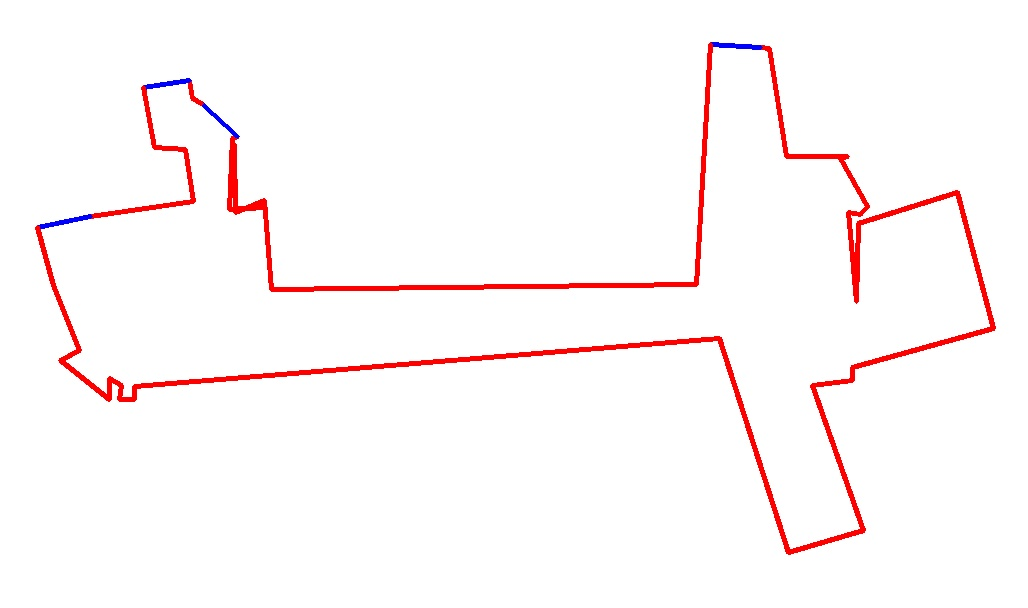
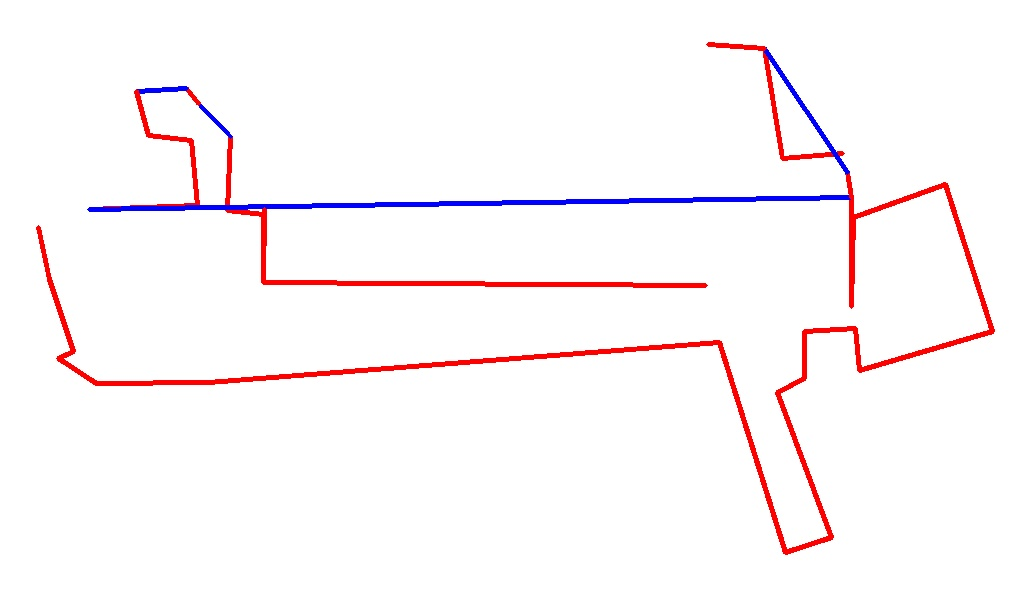
new run

Changed region(s): [[0.0311, 0.0625, 0.965, 0.8125], [0.0311, 0.4062, 0.716, 0.6562], [0.7471, 0.7188, 0.8405, 0.9062]]

diff --git a/new_gyro.py b/new_gyro.py
@@ -9,81 +9,6 @@ import numpy as np
 power_mgmt_1 = 0x6b
 power_mgmt_2 = 0x6c
  
-# Image
-
-image = cv2.imread("indoor_position.JPG", 1)
-canny = image
-image_draw = image
-
-mouse_start_x = 0
-mouse_start_y = 0
-mouse_end_x = 0
-mouse_end_y = 0
-mouse_door_start_x = 0
-mouse_door_start_y = 0
-mouse_door_end_x = 0
-mouse_door_end_y = 0
-mouse_flag = False
-mouse_stop_flag = True
-mouse_dbl_clk_flag = False
-mouse_draw_flag = True
-
-def set_image(event, x, y, flags, param):
-    global mouse_start_x
-    global mouse_start_y
-    global mouse_end_x
-    global mouse_end_y
-    global mouse_flag
-    global mouse_dbl_clk_flag
-    global mouse_door_start_x
-    global mouse_door_start_y
-    global mouse_door_end_x
-    global mouse_door_end_y
-    global mouse_draw_flag
-
-    if event == cv2.EVENT_LBUTTONDOWN and mouse_draw_flag == True:
-        if mouse_flag == False:
-            mouse_flag = True
-            mouse_start_x = x
-            mouse_start_y = y
-        else:
-            mouse_end_x = x
-            mouse_end_y = y
-            cv2.line(image_draw, (mouse_start_x, mouse_start_y), (mouse_end_x, mouse_end_y), (0, 0, 255), 4)
-            mouse_start_x = mouse_end_x
-            mouse_start_y = mouse_end_y
-            print("line")
-    elif event == cv2.EVENT_LBUTTONDBLCLK and mouse_draw_flag == True:
-        print("door")
-        if mouse_dbl_clk_flag == False:
-            mouse_flag = False
-            mouse_door_start_x = x
-            mouse_door_start_y = y
-            mouse_dbl_clk_flag = True
-        else:
-            mouse_door_end_x = x
-            mouse_door_end_y = y
-            cv2.line(image_draw, (mouse_door_start_x, mouse_door_start_y), (mouse_door_end_x, mouse_door_end_y), (255, 0, 0), 4)
-            mouse_dbl_clk_flag = False
-    elif event == cv2.EVENT_RBUTTONDOWN:
-        cv2.imwrite("image_draw.JPG",image_draw)
-        mouse_draw_flag = False
-
-def map_initiate():
-    G_image = cv2.GaussianBlur(image, (3, 3), 0)
-    canny = cv2.Canny(G_image, 50, 150)
-
-    cv2.namedWindow("Image")
-    cv2.setMouseCallback('Image', set_image)
-    
-    height, weight,channel = image_draw.shape
-    for x in range(0,height):
-        for y in range(0,weight):
-            image[x][y]=255
-
-    cv2.imshow("Image", canny)
-    cv2.waitKey(0)
-
 def read_byte(reg):
     return bus.read_byte_data(address, reg)
  
@@ -112,7 +37,9 @@ end = 0
 sum_r = 0
 sum_l = 0
 
-map_initiate()
+image = cv2.imread("image_draw.JPG", 1)
+cv2.imshow("Image", image)
+cv2.waitKey(0)
 
 while True:
  #   print "Gyroskop"

diff --git a/run.py b/run.py
@@ -1,0 +1,5 @@
+import sys
+import subprocess
+
+subprocess.call("python draw.py", shell = True)
+subprocess.call("python new_gyro.py", shell = True)
